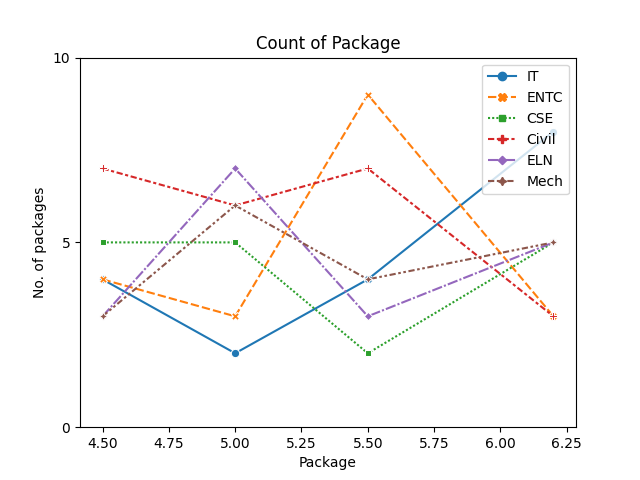
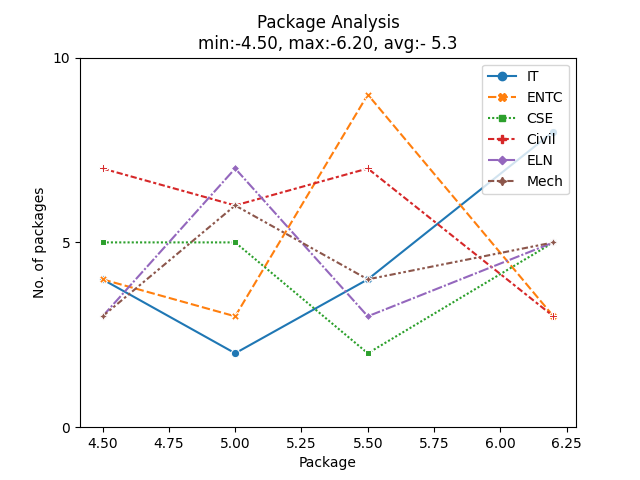
bug fixes

Changed region(s): [[0.3125, 0.0312, 0.7188, 0.125]]

diff --git a/institute_analysis.py b/institute_analysis.py
@@ -143,7 +143,7 @@ class InstituteAnalysis(Screen):
         df=pd.DataFrame(dat,columns=['package','count','branch'])
 
         sns.lineplot(x='package',y='count',hue = 'branch',data=df,markers=True,style='branch')
-        plt.title("Count of Package")
+        plt.title(f"Package Analysis\nmin:-{min(df['package'])}, max:-{max(df['package'])}, avg:- {np.mean(df['package'])}")
         plt.yticks(np.arange(max(df['count'])+5,step=5))
         plt.xlabel("Package")
         plt.ylabel("No. of packages")

diff --git a/department_analysis.py b/department_analysis.py
@@ -231,7 +231,7 @@ class DepartmentBasicDetails(Screen):
         df=pd.DataFrame(dat,columns=['package','count','year'])
 
         sns.lineplot(x='package',y='count',hue = 'year',data=df,markers=True,style='year')
-        plt.title("Count of Package")
+        plt.title(f"Package Analysis\nmin:-{min(df['package'])}, max:-{max(df['package'])}, avg:- {np.mean(df['package'])}")
         plt.yticks(np.arange(max(df['count'])+5,step=5))
         plt.xlabel("Package")
         plt.ylabel("Offer Count")
